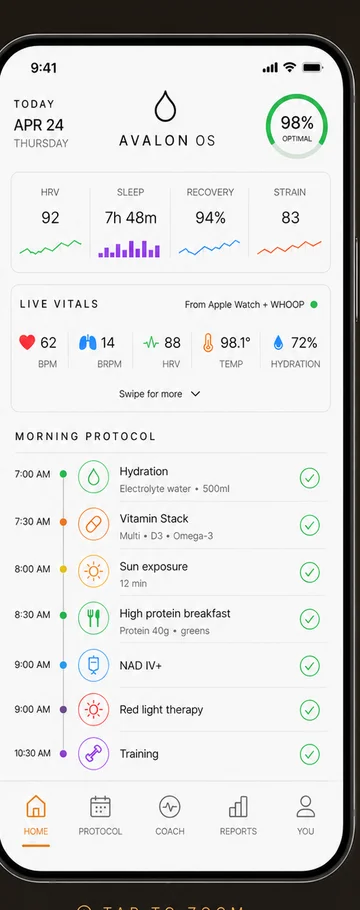
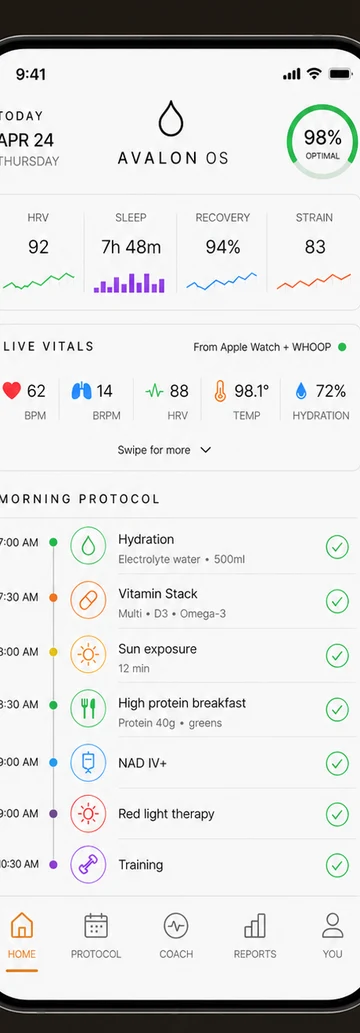
feat(avalon-os): tighter phone crop + heading hierarchy + drop trust card
- Re-crop phone tighter (460x1320 from composite, 39KB webp)
- Heading: Coming Soon eyebrow → AVALON OS title → divider → Intelligent Delivery sub-subtitle
- Remove HIPAA/ISO/SOC 2 trust card from beneath layers
- 5 layer cards stay

diff --git a/src/components/landing/AvalonOSPreview.jsx b/src/components/landing/AvalonOSPreview.jsx
@@ -2,7 +2,7 @@ import React, { useState } from 'react';
 import { motion, AnimatePresence } from 'framer-motion';
 import {
   Truck, Droplet, BarChart3, Brain, Orbit,
-  ChevronRight, ShieldCheck, Award, ZoomIn, X
+  ChevronRight, ZoomIn, X
 } from 'lucide-react';
 
 const EASE = [0.16, 1, 0.3, 1];
@@ -15,18 +15,12 @@ const LAYERS = [
   { n: 5, name: 'Autonomy',     desc: 'Your protocol runs itself.',      accentTail: 'Avalon delivers it.', icon: Orbit },
 ];
 
-const CERTS = [
-  { label: 'HIPAA', sub: 'COMPLIANT', icon: ShieldCheck },
-  { label: 'ISO',   sub: '27001',     icon: Award },
-  { label: 'SOC 2', sub: 'TYPE II',   icon: ShieldCheck },
-];
-
 export default function AvalonOSPreview() {
   const [zoomed, setZoomed] = useState(false);
   return (
     <section id="avalon-os" className="py-10 md:py-20 px-4 border-t border-border">
       <div className="max-w-6xl mx-auto">
-        {/* Section title block — matches site canonical pattern */}
+        {/* Title block — Coming Soon eyebrow → AVALON OS title → divider → Intelligent Delivery sub-subtitle */}
         <motion.div
           initial={{ opacity: 0, y: 14 }}
           whileInView={{ opacity: 1, y: 0 }}
@@ -34,19 +28,22 @@ export default function AvalonOSPreview() {
           transition={{ duration: 0.7, ease: EASE }}
           className="text-left mb-6 md:mb-10"
         >
-          <p className="text-xs md:text-sm tracking-[0.3em] text-accent font-body uppercase mb-3 md:mb-4">Coming Soon — Avalon OS</p>
-          <h2 className="font-heading text-[10vw] md:text-7xl lg:text-8xl text-foreground tracking-wide leading-[0.92] uppercase">
-            Intelligent Delivery
+          <p className="text-xs md:text-sm tracking-[0.3em] text-accent font-body uppercase mb-3 md:mb-4">Coming Soon</p>
+          <h2 className="font-heading text-[14vw] md:text-7xl lg:text-8xl text-foreground tracking-wide leading-[0.92] uppercase">
+            Avalon OS
           </h2>
           <div className="w-12 md:w-14 h-[2px] md:h-[3px] bg-accent mt-4 md:mt-5 mb-4 md:mb-5" />
-          <p className="font-body text-sm md:text-base text-foreground/85 leading-snug max-w-xl">
+          <p className="font-heading text-xl md:text-2xl lg:text-3xl text-foreground/85 tracking-wide uppercase leading-tight">
+            Intelligent Delivery
+          </p>
+          <p className="font-body text-sm md:text-base text-muted-foreground leading-snug max-w-xl mt-3 md:mt-4">
             Real-time data. Intelligent protocol. Peak every day.
           </p>
         </motion.div>
 
         <div className="grid grid-cols-[1.05fr_1fr] gap-3 md:gap-10 items-center">
-          {/* LEFT — layers + trust card (canonical site style) */}
-          <div className="min-w-0 space-y-2.5 md:space-y-3">
+          {/* LEFT — 5 layer cards (canonical site style) */}
+          <div className="min-w-0">
             <motion.div
               initial={{ opacity: 0, y: 10 }}
               whileInView={{ opacity: 1, y: 0 }}
@@ -73,40 +70,9 @@ export default function AvalonOSPreview() {
                 );
               })}
             </motion.div>
-
-            {/* Trust card */}
-            <motion.div
-              initial={{ opacity: 0, y: 10 }}
-              whileInView={{ opacity: 1, y: 0 }}
-              viewport={{ once: true, margin: '-10%' }}
-              transition={{ duration: 0.55, delay: 0.3, ease: EASE }}
-              className="border border-foreground/15 rounded-md md:rounded-xl px-3 md:px-4 py-3"
-            >
-              <div className="flex items-start gap-2.5 md:gap-3 mb-2.5 md:mb-3">
-                <ShieldCheck className="w-4 h-4 md:w-5 md:h-5 text-accent shrink-0 mt-0.5" strokeWidth={1.5} />
-                <div className="min-w-0 flex-1">
-                  <p className="font-body text-[11px] md:text-sm text-foreground leading-snug">Your health. Your data. Our priority.</p>
-                  <p className="font-body text-[9px] md:text-[11px] text-muted-foreground leading-snug mt-0.5">HIPAA-compliant. Bank-level security.</p>
-                </div>
-              </div>
-              <div className="grid grid-cols-3 gap-1.5 md:gap-2">
-                {CERTS.map((c) => {
-                  const Icon = c.icon;
-                  return (
-                    <div key={c.label} className="flex items-center gap-1.5 px-1.5 md:px-2 py-1.5 border border-foreground/10 rounded">
-                      <Icon className="w-3 h-3 md:w-3.5 md:h-3.5 text-accent/70 shrink-0" strokeWidth={1.5} />
-                      <div className="min-w-0 leading-none">
-                        <p className="font-body text-[8px] md:text-[10px] text-foreground/85 font-semibold tracking-wide uppercase truncate">{c.label}</p>
-                        <p className="font-body text-[6px] md:text-[8px] text-muted-foreground tracking-widest uppercase truncate">{c.sub}</p>
-                      </div>
-                    </div>
-                  );
-                })}
-              </div>
-            </motion.div>
           </div>
 
-          {/* RIGHT — exact phone screenshot, no React rebuild */}
+          {/* RIGHT — exact phone screenshot, tightly cropped */}
           <motion.div
             initial={{ opacity: 0, y: 24 }}
             whileInView={{ opacity: 1, y: 0 }}
@@ -125,7 +91,7 @@ export default function AvalonOSPreview() {
                 src="/avalon-os-phone.webp"
                 alt="Avalon OS — mobile preview of today's morning protocol"
                 width={360}
-                height={910}
+                height={1035}
                 loading="lazy"
                 decoding="async"
                 className="block w-full h-auto mx-auto max-w-[180px] sm:max-w-[230px] md:max-w-[320px]"
